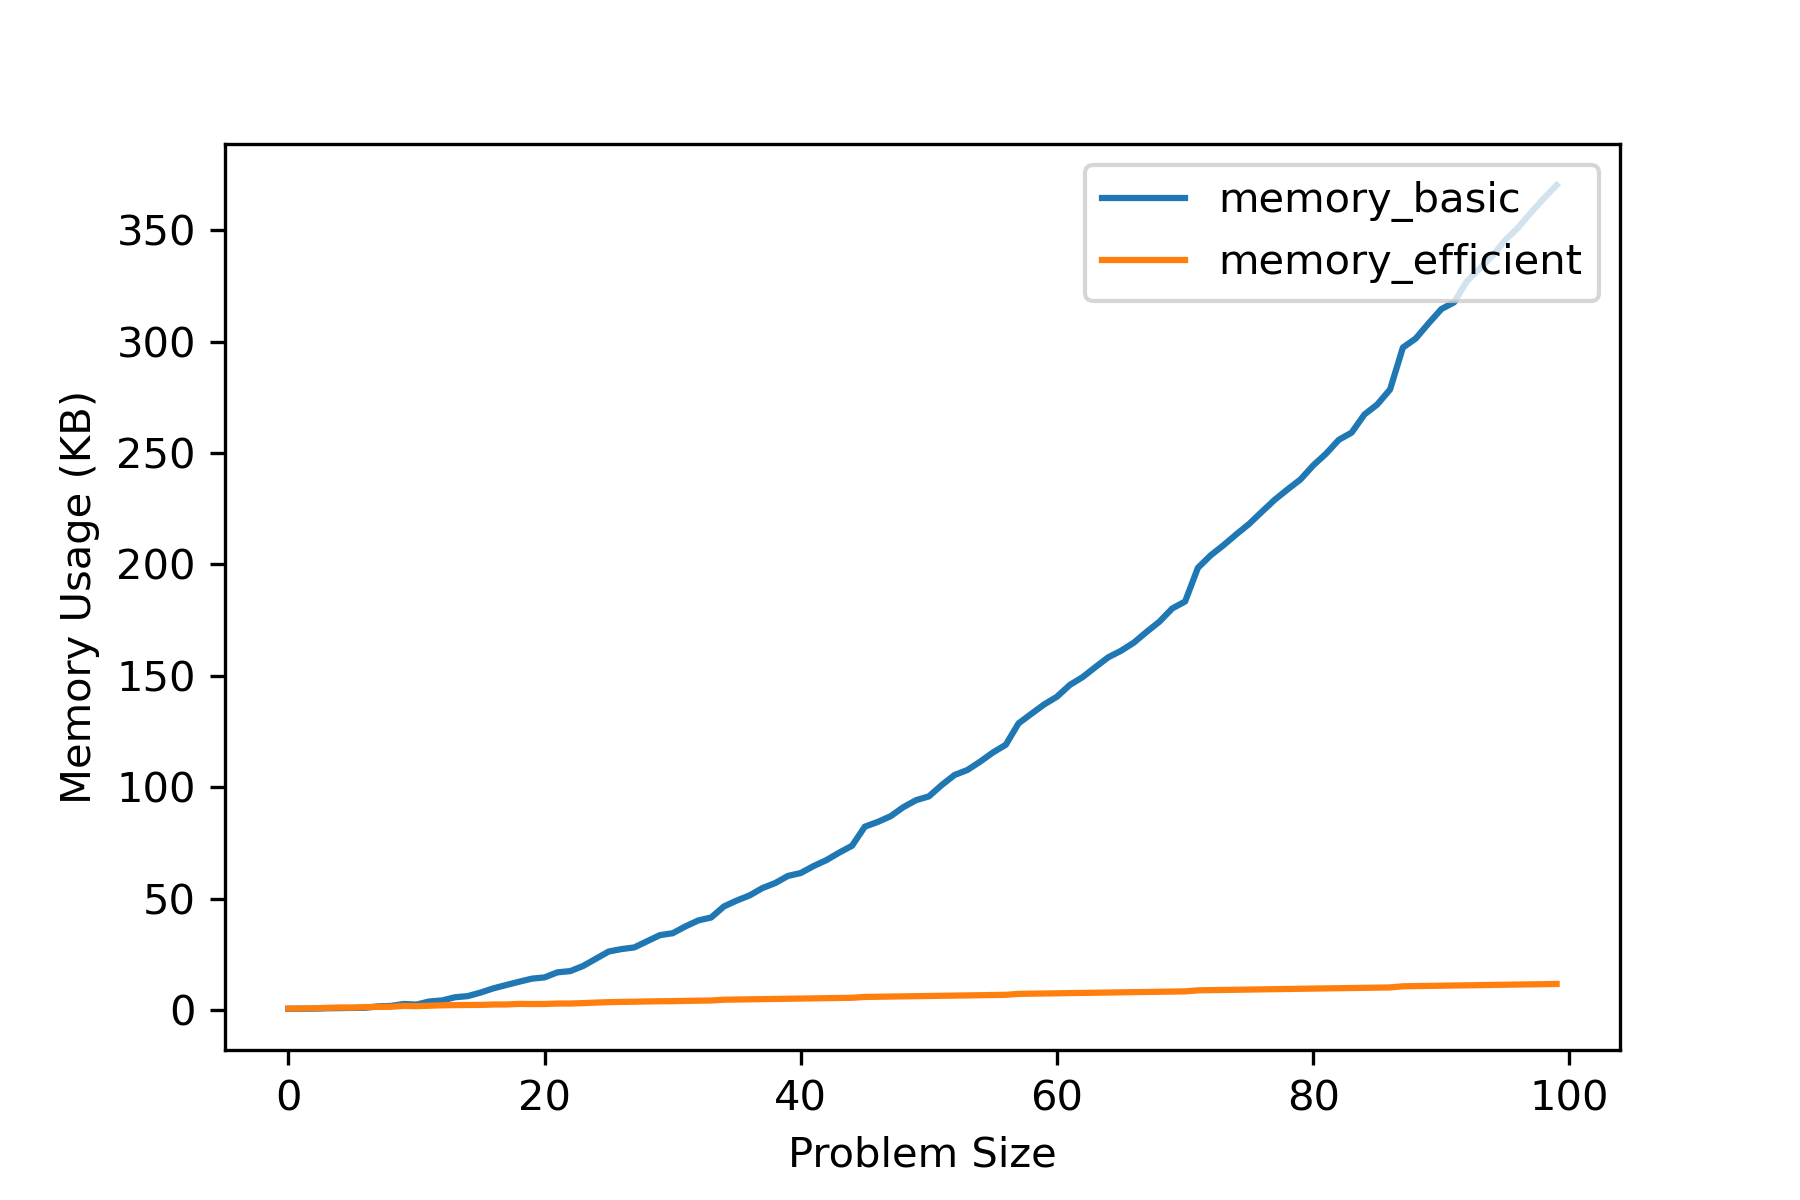
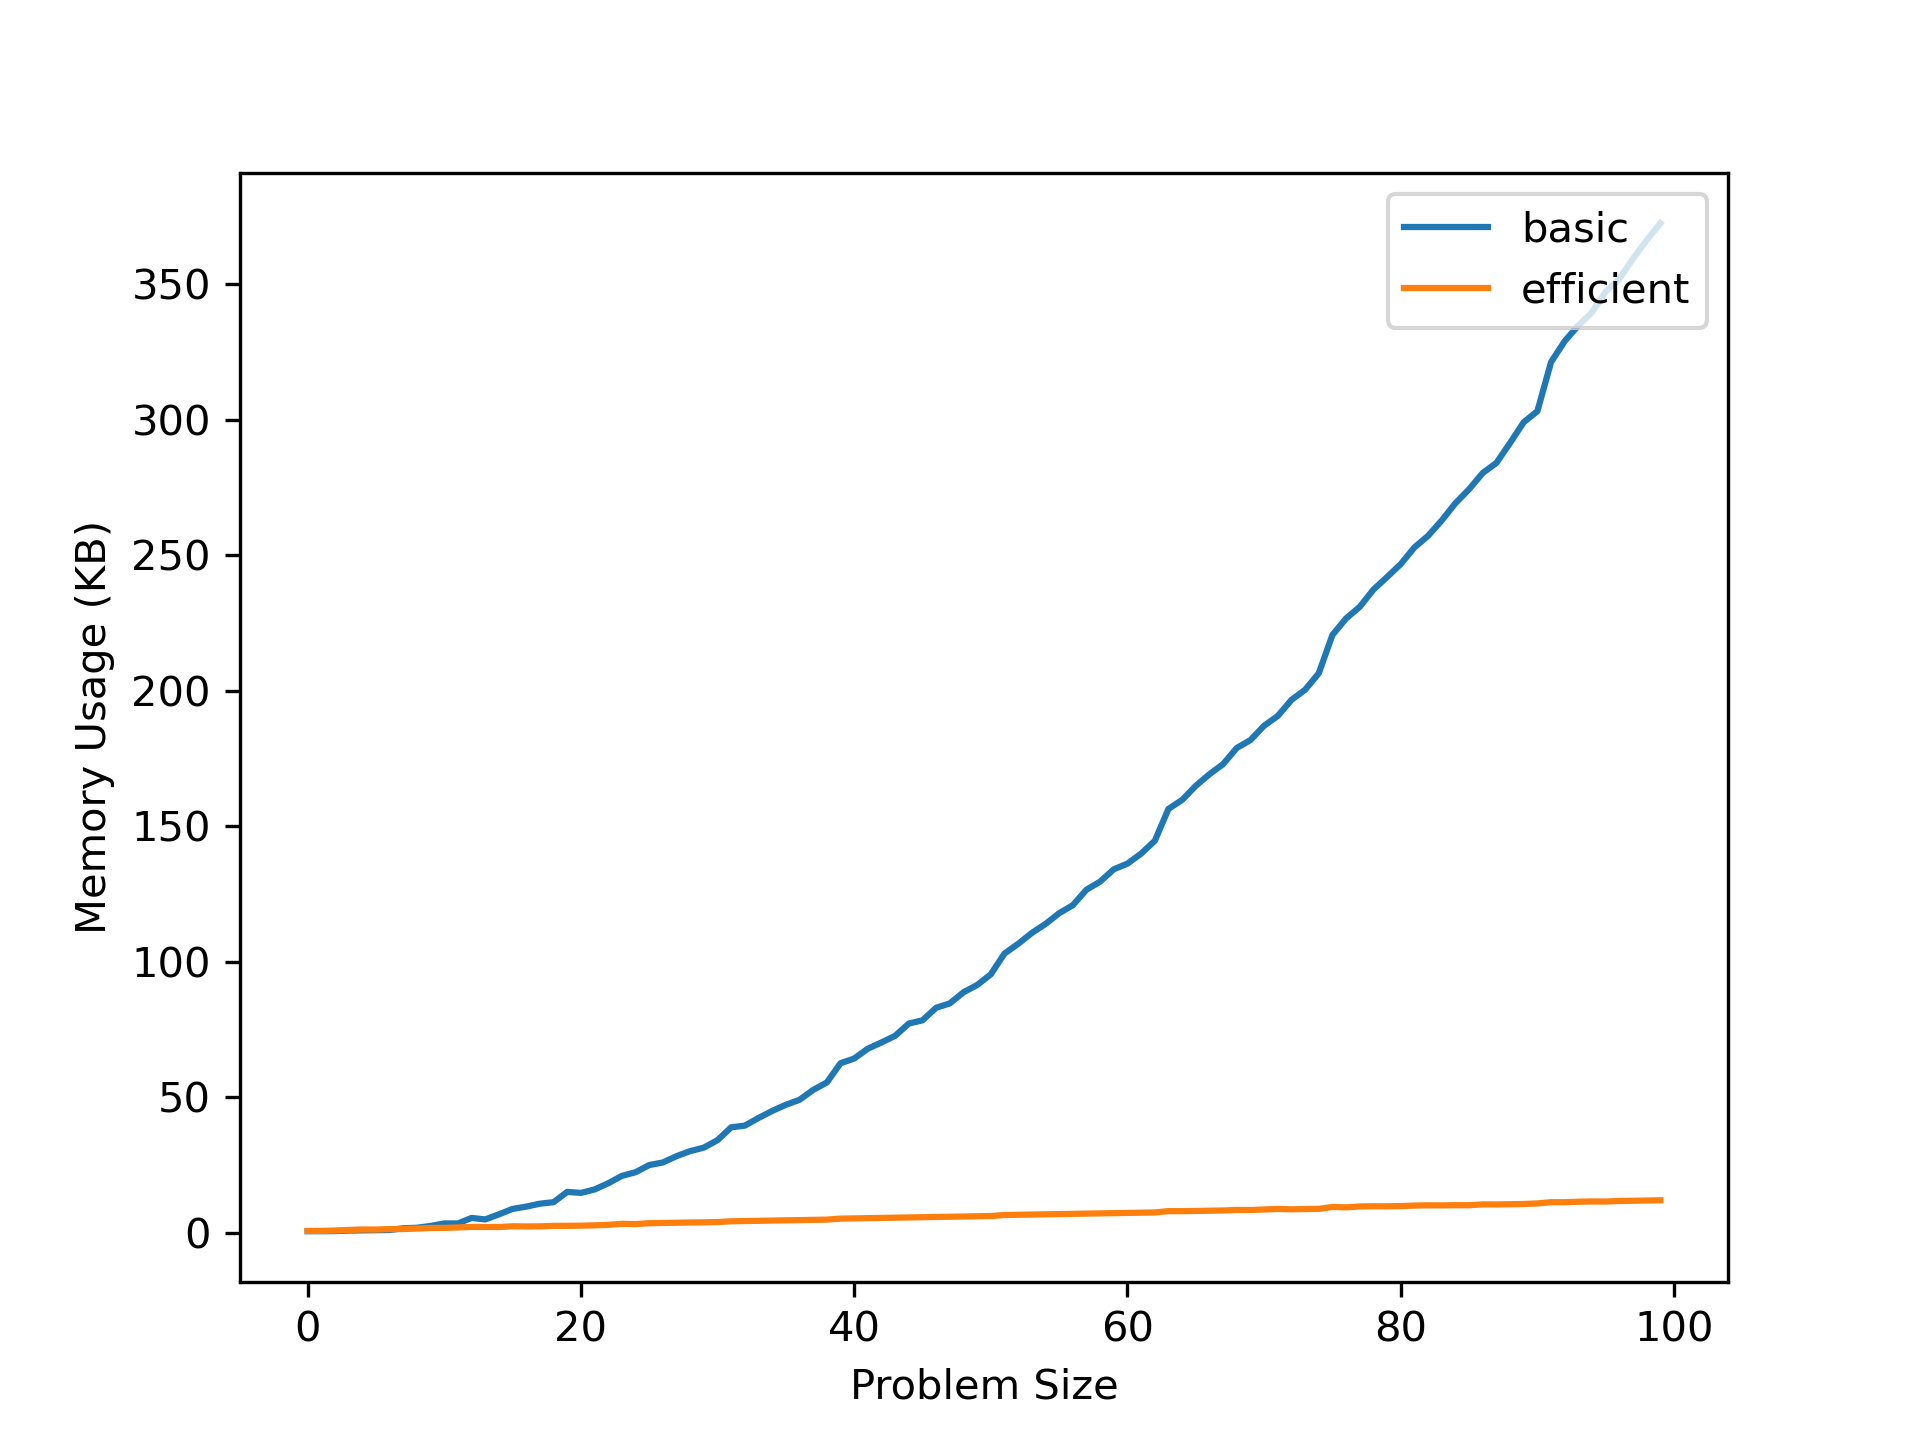
Renamed the legend

diff --git a/graphs.py b/graphs.py
@@ -83,8 +83,8 @@ def generate_graphs():
     time_comp_df = pd.DataFrame(time_comp, columns=['time_basic','time_efficient'])
     memory_comp_df = pd.DataFrame(memory_comp, columns=['peak_memory_basic','peak_memory_efficient'])
     
-    plt.plot(memory_comp_df["peak_memory_basic"], label = 'memory_basic')
-    plt.plot(memory_comp_df["peak_memory_efficient"], label = 'memory_efficient')
+    plt.plot(memory_comp_df["peak_memory_basic"], label = 'basic')
+    plt.plot(memory_comp_df["peak_memory_efficient"], label = 'efficient')
     plt.legend(loc="upper right")
     plt.xlabel('Problem Size')
     plt.ylabel('Memory Usage (KB)')
@@ -92,8 +92,8 @@ def generate_graphs():
 
     plt.show()
 
-    plt.plot(time_comp_df["time_basic"], label = 'time_basic')
-    plt.plot(time_comp_df["time_efficient"], label = 'time_efficient')
+    plt.plot(time_comp_df["time_basic"], label = 'basic')
+    plt.plot(time_comp_df["time_efficient"], label = 'efficient')
     plt.legend(loc="upper right")
     plt.xlabel('Problem Size')
     plt.ylabel('CPU Time (milliseconds)')
